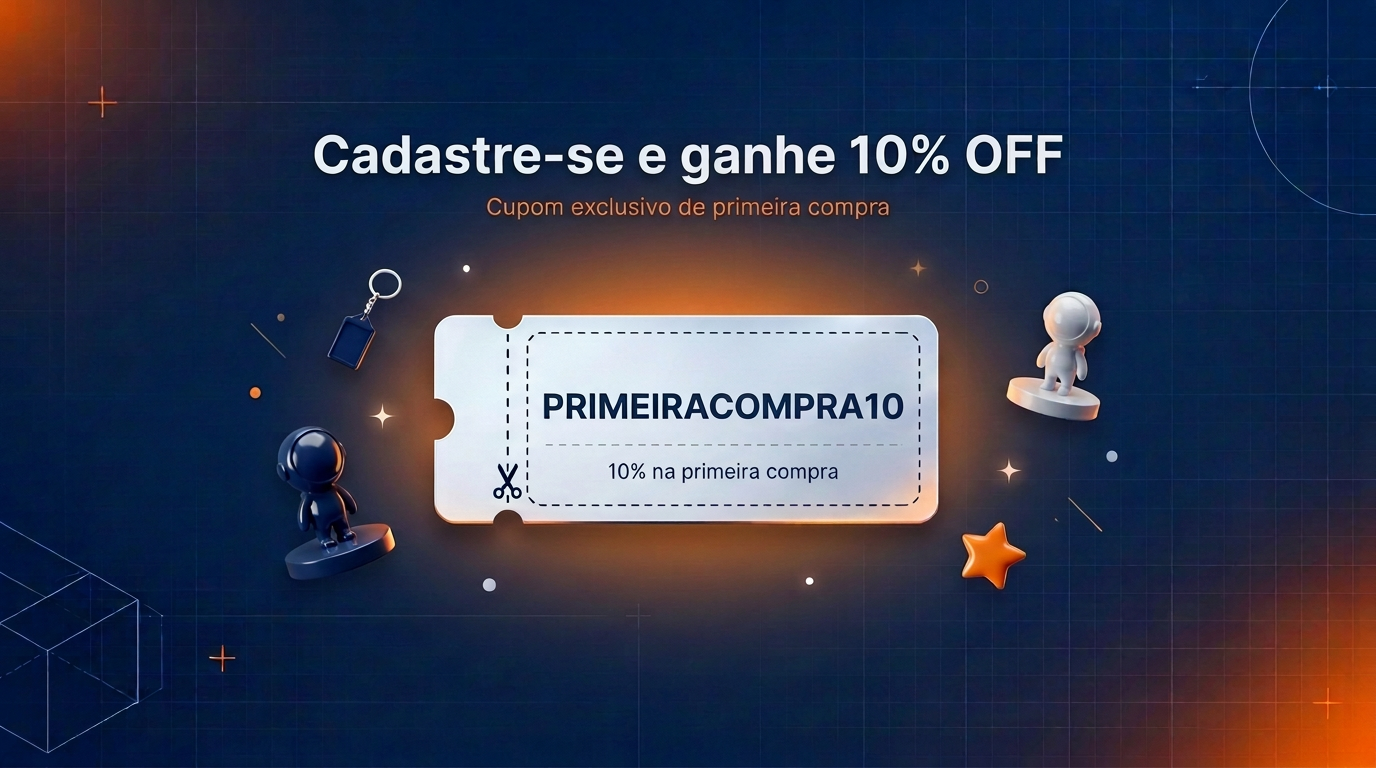
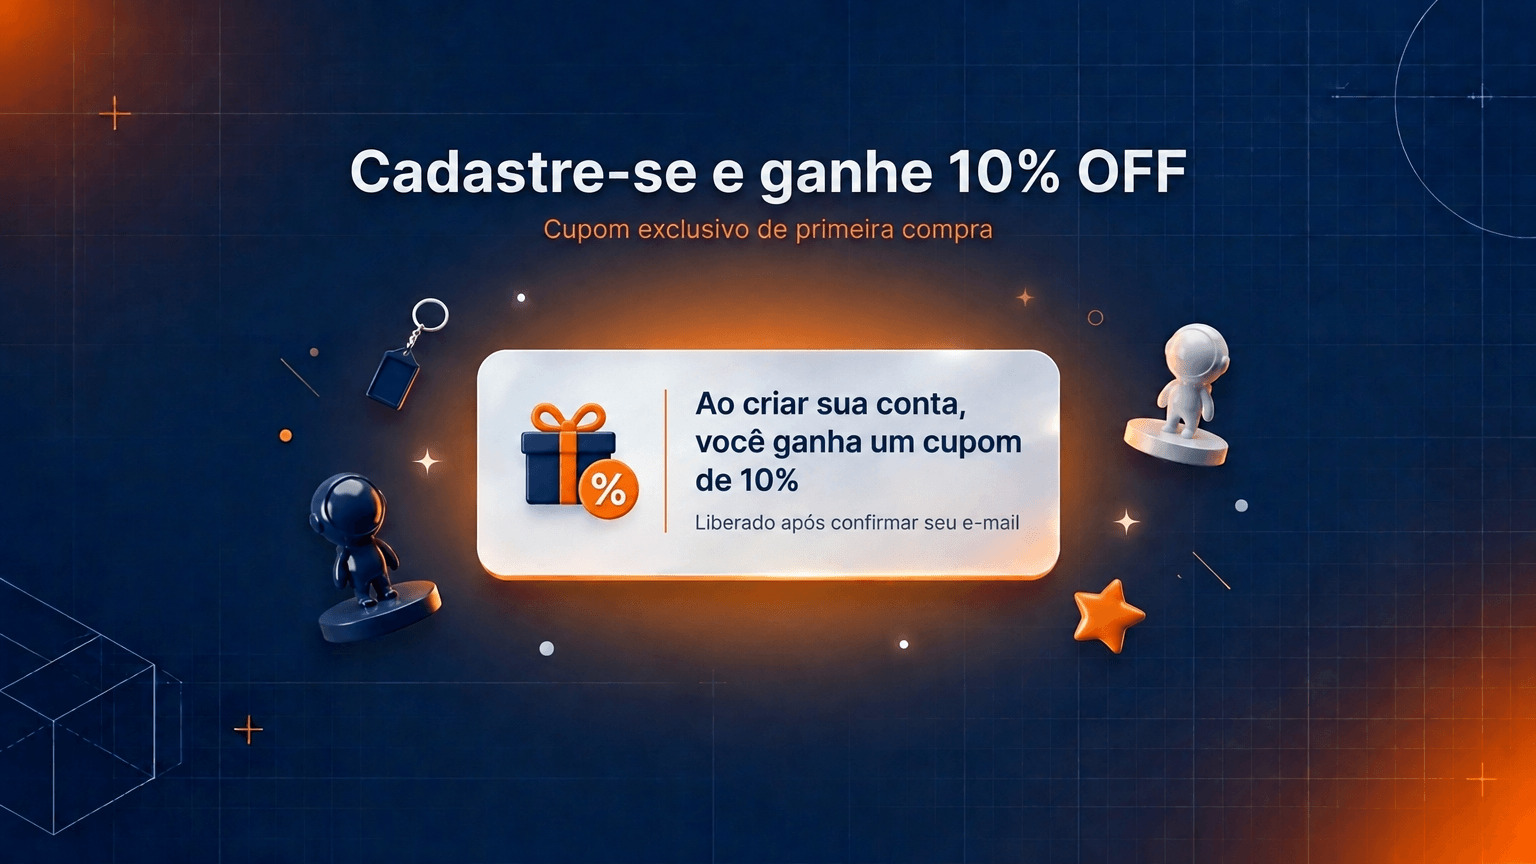
verificacao de email com a marca via Resend + firebase-admin - link direto para verificar-email.html sem pagina branca

diff --git a/loja-login.js b/loja-login.js
@@ -1,5 +1,4 @@
 /* ===== Meu 3D Labs — loja/login: Firebase e-mail/senha (cadastro 2 etapas + CEP + aniversário), Google, perfil (Firestore) e painel Minha conta ===== */
-
 (function(){
   var firebaseConfig={
     /* SE DER "api-key-not-valid": apague a chave abaixo e cole a copiada do Google Cloud > Credenciais > Exibir chave */
@@ -15,7 +14,8 @@
   var auth=firebase.auth();
   var db=(typeof firebase.firestore==='function')?firebase.firestore():null;
   auth.languageCode='pt-BR';
-  console.info('✅ loja-login: versão com cupom secreto (liberado só na verificação) carregada');
+  var API_BASE='https://meu3dlabs-backend.onrender.com/api';
+  console.info('✅ loja-login: e-mail de verificação com a marca da loja (via backend) carregado');
   var mesesN=['Janeiro','Fevereiro','Março','Abril','Maio','Junho','Julho','Agosto','Setembro','Outubro','Novembro','Dezembro'];
   /* ---------- CSS do módulo ---------- */
   var css=document.createElement('style');
@@ -35,7 +35,7 @@
   '.m3l-card input{width:100%;box-sizing:border-box;padding:12px 14px;border:1.5px solid #e2e6ee;border-radius:10px;background:#f8f9fc;font-size:.92rem;margin-bottom:10px;font-family:inherit;transition:border-color .15s,background .15s;color:#0f1e3d;}' +
   '.m3l-card input::placeholder{color:#9aa3b2;}' +
   '.m3l-card input:focus{outline:none;border-color:#f26522;background:#fff;box-shadow:0 0 0 3px rgba(242,101,34,.12);}' +
-  '.m3l-card select{width:100%;box-sizing:border-box;padding:12px 10px;border:1.5px solid #e2e6ee;border-radius:10px;background:#f8f9fc;font-size:.92rem;margin-bottom:10px;font-family:inherit;color:#0f1e3d;}' +
+  '.m3l-card select{width:100%;box-sizing:border-box;padding:12px 10px;border:1.5px solid #e2e6ee;border-radius:10px;background:#f8f9fc;font-size:.92rem;margin-bottom:10px;color:#0f1e3d;font-family:inherit;}' +
   '.m3l-card select:focus{outline:none;border-color:#f26522;background:#fff;}' +
   '.m3l-linha2{display:flex;gap:8px;}' +
   '.m3l-linha2 input{flex:1;min-width:0;}' +
@@ -187,12 +187,6 @@
   '<div class="m3l-verbar-txt">Para liberar seu cupom de <b>10% de desconto</b> na primeira compra, confirme o e-mail que enviamos para <b id="m3lVerbarEmail">—</b>. Assim que confirmar, o cupom aparece na hora. Cheque também a caixa de spam.</div>' +
   '<div class="m3l-verbtns"><button type="button" class="m3l-verbtn esc" id="m3lVerReenviar">Reenviar e-mail</button><button type="button" class="m3l-verbtn ok" id="m3lVerOk">Já confirmei ✅</button></div>';
   document.body.appendChild(verbar);
-  function urlConfirmacao(){
-    if(location.protocol==='http:'||location.protocol==='https:'){
-      return {url:location.origin+'/verificar-email.html'};
-    }
-    return {};
-  }
   function emailVerificado(){
     var cu=auth.currentUser;
     return !cu?true:!!cu.emailVerified;
@@ -207,7 +201,24 @@
       verbar.classList.remove('show');
     }
   }
-  /* ---------- Reenvio com contagem regressiva + fallback automático ---------- */
+  /* ---------- E-mail de verificação com a marca (via backend) ---------- */
+  function pedirEmailVerificacaoBackend(){
+    var cu=auth.currentUser;
+    if(!cu||!cu.email)return Promise.reject({code:'sem-usuario'});
+    return cu.getIdToken(true).then(function(tok){
+      return fetch(API_BASE+'/auth/enviar-verificacao',{
+        method:'POST',
+        headers:{'Content-Type':'application/json'},
+        body:JSON.stringify({idToken:tok})
+      }).then(function(r){
+        return r.json().catch(function(){return {};}).then(function(d){
+          if(!r.ok)throw {code:'backend-erro',status:r.status,detalhe:(d&&d.error)||''};
+          return d;
+        });
+      });
+    });
+  }
+  /* ---------- Reenvio com contagem regressiva ---------- */
   var COOLDOWN_REENVIO=60;
   function iniciarCooldown(btn){
     var rest=COOLDOWN_REENVIO;
@@ -243,25 +254,16 @@
       if(aoConcluir)aoConcluir();
       setTimeout(function(){iniciarCooldown(btn);},1800);
     }
-    function falha(e){
-      var cod=(e&&e.code)||'erro-desconhecido';
-      console.warn('loja-login: falha no reenvio do e-mail de confirmação',cod,e&&e.message);
-      var eUri=cod.indexOf('continue-uri')!==-1||cod==='auth/operation-not-allowed';
-      if(eUri){
-        /* Domínio do link de retorno não autorizado → envia com o link padrão do Firebase */
-        cu.sendEmailVerification().then(function(){
-          ok();
-        }).catch(function(e2){
-          console.warn('loja-login: reenvio simples também falhou',(e2&&e2.code)||'erro-desconhecido');
-          btn.disabled=false;btn.textContent=t;
-          falhaReenvioAlerta((e2&&e2.code)||'erro-desconhecido');
-        });
-        return;
-      }
+    function falhaFirebase(e){
+      console.warn('loja-login: reenvio padrão do Firebase também falhou',(e&&e.code)||'');
       btn.disabled=false;btn.textContent=t;
-      falhaReenvioAlerta(cod);
+      falhaReenvioAlerta((e&&e.code)||'erro-desconhecido');
     }
-    cu.sendEmailVerification(urlConfirmacao()).then(ok).catch(falha);
+    /* 1ª opção: backend com a marca Meu 3D Labs. Se cair, usa o envio padrão do Firebase como segurança. */
+    pedirEmailVerificacaoBackend().then(ok).catch(function(e){
+      console.warn('loja-login: backend falhou no reenvio — tentando envio padrão do Firebase',(e&&e.code)||'');
+      cu.sendEmailVerification().then(ok).catch(falhaFirebase);
+    });
   }
   $('m3lVerReenviar').onclick=function(){reenviarConfirmacao(this);};
   $('m3lVerOk').onclick=function(){
@@ -707,9 +709,12 @@
     function falha(e){erro(traduzErro(e));g.disabled=false;g.textContent=t;}
     auth.createUserWithEmailAndPassword(upEmail,senha)
       .then(function(cred){
-        cred.user.sendEmailVerification(urlConfirmacao()).catch(function(e){
-          var cod=(e&&e.code)||'erro-desconhecido';
-          console.warn('loja-login: envio com retorno falhou — tentando envio simples',cod);
+        /* E-mail de verificação com a marca Meu 3D Labs (via backend).
+           Se o backend não responder, cai no envio padrão do Firebase — nada quebra. */
+        pedirEmailVerificacaoBackend().then(function(){
+          console.info('loja-login: e-mail de verificação enviado com a marca Meu 3D Labs');
+        }).catch(function(e){
+          console.warn('loja-login: backend falhou — usando envio padrão do Firebase',(e&&e.code)||'');
           cred.user.sendEmailVerification().catch(function(e2){
             console.warn('loja-login: e-mail de confirmação não enviado',(e2&&e2.code)||'erro-desconhecido');
             var vb=document.getElementById('m3lVerbar');
